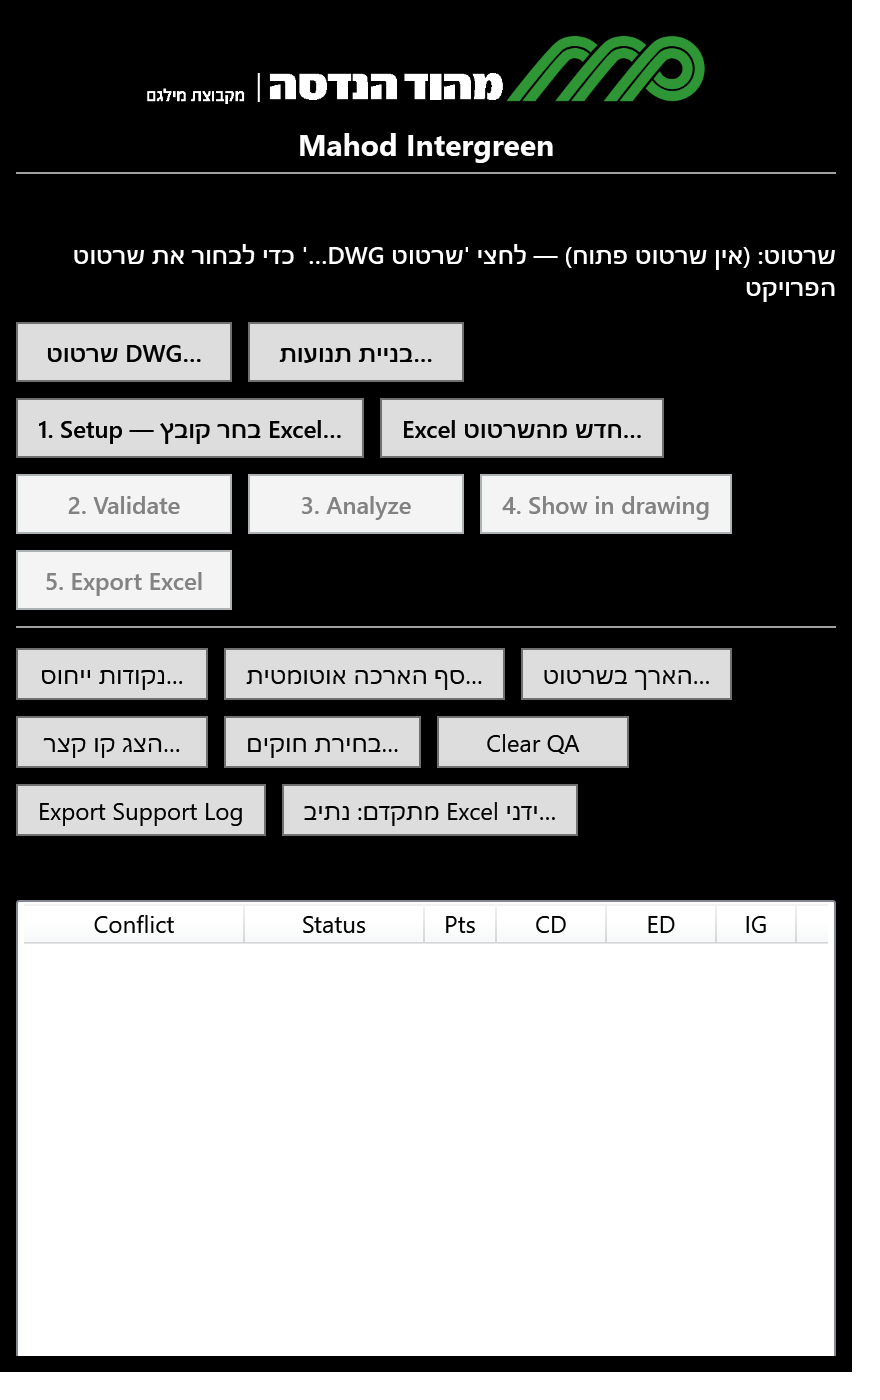
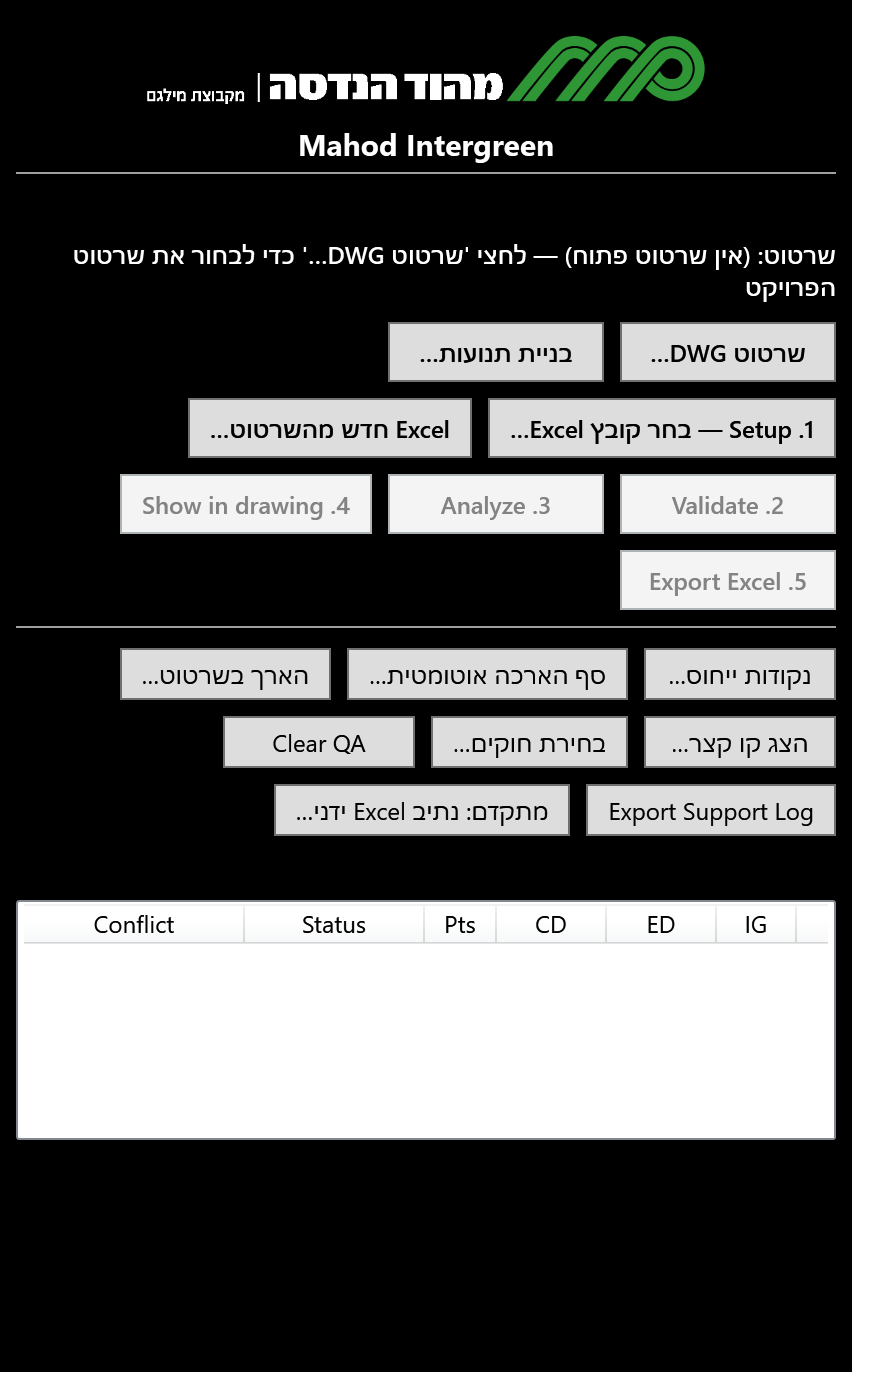
r14 palette polish from the live Civil 3D 2027 test: RTL button flow, scrollable palette and list, Hebrew statuses, busy cursor, export opens in Excel, Validate findings with full text; guide updated

Changed region(s): [[0.0, 0.215, 0.9511, 0.6143], [0.0, 0.7986, 0.9511, 0.9829]]

diff --git a/docs/guides/STAFF_GUIDE_HE_r14.html b/docs/guides/STAFF_GUIDE_HE_r14.html
@@ -58,17 +58,17 @@
   <div class="two">
     <div>
       <h2>הפלטה</h2>
-      <p>שורת הסטטוס בעברית אומרת בכל רגע מה הצעד הבא. השורה העליונה של הכפתורים היא תהליך העבודה (1→5); השורה התחתונה — פעולות תמיכה.</p>
+      <p>שורת הסטטוס בעברית אומרת בכל רגע מה הצעד הבא. הכפתורים זורמים מימין לשמאל: קודם תהליך העבודה (1→5), מתחתיו פעולות התמיכה. הפלטה נגללת כשהיא קצרה מהתוכן, והרשימה נגללת בפני עצמה; בזמן חישוב הסמן מתחלף לשעון חול. ריחוף על שורה ברשימה מציג את המלל המלא.</p>
       <table>
         <tr><th>כפתור</th><th>מה הוא עושה</th></tr>
         <tr><td><span class="btn">שרטוט DWG…</span></td><td>בחירת שרטוט הצומת (או מעבר לשרטוט פתוח).</td></tr>
         <tr><td><span class="btn">בניית תנועות…</span></td><td>בונה את שכבות התנועות מקווי המתכנן (סעיף א').</td></tr>
         <tr><td><span class="btn">1. Setup — בחר קובץ Excel…</span></td><td>יש Excel לפרויקט? בוחרים אותו.</td></tr>
         <tr><td><span class="btn">Excel חדש מהשרטוט…</span></td><td>אין Excel? הכלי יוצר אותו מתבנית המחלקה (סעיף ב').</td></tr>
-        <tr><td><span class="btn">2. Validate</span></td><td>בדיקת השרטוט: תנועות, חציות, קווים קצרים.</td></tr>
+        <tr><td><span class="btn">2. Validate</span></td><td>בדיקת השרטוט: תנועות, חציות, קווים קצרים. הממצאים מופיעים ברשימה (קוד, חומרה, תנועה).</td></tr>
         <tr><td><span class="btn">3. Analyze</span></td><td>חישוב הקונפליקטים והמטריצה.</td></tr>
         <tr><td><span class="btn">4. Show in drawing</span></td><td>מציג את נקודות החישוב של השורה שנבחרה.</td></tr>
-        <tr><td><span class="btn">5. Export Excel</span></td><td>קובץ תוצאות חדש ליד המקור.</td></tr>
+        <tr><td><span class="btn">5. Export Excel</span></td><td>קובץ תוצאות חדש ליד המקור — נפתח באקסל אוטומטית.</td></tr>
         <tr><td><span class="btn">נקודות ייחוס…</span> <span class="btn">הצג קו קצר…</span><br><span class="btn">סף הארכה אוטומטית…</span> <span class="btn">הארך בשרטוט…</span></td><td>טיפול בקו גבול שאינו מגיע לקו העצירה (סעיף ג').</td></tr>
         <tr><td><span class="btn">בחירת חוקים…</span> <span class="btn">Clear QA</span> <span class="btn">Export Support Log</span></td><td>גרסת ההנחיות, ניקוי סימונים, לוג לתמיכה.</td></tr>
       </table>
@@ -134,10 +134,10 @@
 
   <h2>ד. חישוב, תצוגה וייצוא</h2>
   <ol>
-    <li><span class="btn">2. Validate</span> — כמה תנועות וחציות זוהו; שגיאות חוסמות ואזהרות בעברית.</li>
+    <li><span class="btn">2. Validate</span> — כמה תנועות וחציות זוהו; שגיאות חוסמות ואזהרות בעברית, ברשימה שמתחת לכפתורים (ריחוף = המלל המלא). Analyze מחליף את הרשימה בקונפליקטים; Validate נוסף מחזיר את הממצאים.</li>
     <li><span class="btn">3. Analyze</span> — לכל זוג תנועות (מפנה ← נכנסת): CD, ED, זמן הבין־ירוק והסטטוס. מרחק הפינוי של רכב מול מעבר חצייה נמדד עד הקצה הרחוק של המעבר (הנחיות יוני 2025, עמ' 157).</li>
     <li>בוחרים שורה ← <span class="btn">4. Show in drawing</span> — התצוגה מתקרבת, נקודות החישוב מסומנות, הנקודה הקובעת באדום. <span class="btn">Clear QA</span> מנקה את הסימונים; הם אינם נשמרים בשרטוט.</li>
-    <li><span class="btn">5. Export Excel</span> — קובץ תוצאות <b>חדש</b> (<span class="ltr">*_MAHOD_INTERGREEN.xlsx</span>) ליד המקור: הגיליונות המקוריים + שני גיליונות תוצאה של מהוד. Refresh באקסל שומר על התוצאה.</li>
+    <li><span class="btn">5. Export Excel</span> — קובץ תוצאות <b>חדש</b> (<span class="ltr">*_MAHOD_INTERGREEN.xlsx</span>) ליד המקור: הגיליונות המקוריים + שני גיליונות תוצאה של מהוד. הקובץ נפתח באקסל מיד; המטריצה מתרעננת בפתיחה, ו־Refresh שומר על התוצאה.</li>
   </ol>
 
   <h2>חשוב לדעת</h2>

diff --git a/src/Mahod.Intergreen.AutoCAD2026/IgWorkflowCommands.cs b/src/Mahod.Intergreen.AutoCAD2026/IgWorkflowCommands.cs
@@ -387,17 +387,23 @@ public partial class IgWorkflowCommands
         }
         _palette.Visible = true;
         BindToActiveDrawing();
-        SetStatus("Setup → Validate → Analyze → Review → Export Excel.");
+        SetStatus("התהליך: 1 Setup ← 2 Validate ← 3 Analyze ← 4 Show in drawing ← 5 Export Excel. אין Excel לפרויקט? \"Excel חדש מהשרטוט…\".");
     }
 
-    private static StackPanel BuildPanel()
+    private static FrameworkElement BuildPanel()
     {
         // Deterministic palette colors: the hosted WPF visual does NOT inherit the
         // AutoCAD theme dictionary, so a bare TextBlock renders with WPF's default BLACK
         // foreground on the palette's black background — title/status/rules text were
         // invisible in the real host. Every text element gets an explicit foreground.
         var textBrush = System.Windows.Media.Brushes.White;
-        var root = new StackPanel { Margin = new Thickness(8), Background = System.Windows.Media.Brushes.Black };
+        // Hebrew UI: the panel flows right-to-left (buttons start at the right edge, like the text);
+        // the conflict list below is explicitly LTR because its columns are engineering symbols.
+        var root = new StackPanel
+        {
+            Margin = new Thickness(8), Background = System.Windows.Media.Brushes.Black,
+            FlowDirection = System.Windows.FlowDirection.RightToLeft,
+        };
         _status = new TextBlock
         {
             TextWrapping = TextWrapping.Wrap,
@@ -505,7 +511,11 @@ public partial class IgWorkflowCommands
         };
         root.Children.Add(_rulesLabel);
 
-        _list = new ListView { Height = 330 };
+        // grows with its rows up to a cap, then scrolls inside; the palette itself scrolls too (below)
+        _list = new ListView { MinHeight = 120, MaxHeight = 420, FlowDirection = System.Windows.FlowDirection.LeftToRight };
+        var rowStyle = new Style(typeof(ListViewItem));
+        rowStyle.Setters.Add(new Setter(FrameworkElement.ToolTipProperty, new System.Windows.Data.Binding("Detail")));
+        _list.ItemContainerStyle = rowStyle;
         var gv = new GridView();
         void Col(string h, string p, double w)
             => gv.Columns.Add(new GridViewColumn { Header = h, Width = w, DisplayMemberBinding = new System.Windows.Data.Binding(p) });
@@ -523,7 +533,15 @@ public partial class IgWorkflowCommands
         };
         root.Children.Add(_list);
         UpdateButtonStates();
-        return root;
+        // the palette can be shorter than its content: scroll it, and pin the content width to the palette
+        // width so nothing is clipped at the edge (Arthur, Civil 3D 2027, 2026-09-03)
+        return new ScrollViewer
+        {
+            Content = root,
+            VerticalScrollBarVisibility = ScrollBarVisibility.Auto,
+            HorizontalScrollBarVisibility = ScrollBarVisibility.Disabled,
+            Background = System.Windows.Media.Brushes.Black,
+        };
     }
 
     private static void UpdateButtonStates()
@@ -565,6 +583,7 @@ public partial class IgWorkflowCommands
         }
         try
         {
+            System.Windows.Input.Mouse.OverrideCursor = System.Windows.Input.Cursors.Wait;
             a();
         }
         catch (UserFacingException ux)
@@ -581,6 +600,7 @@ public partial class IgWorkflowCommands
         }
         finally
         {
+            System.Windows.Input.Mouse.OverrideCursor = null;
             UpdateButtonStates();
         }
     }
@@ -1007,13 +1027,16 @@ public partial class IgWorkflowCommands
                 SupportLog.Write("REFERENCE_ENDPOINT", ReferenceReview.Line(issue));
             var autoNote = ReferenceReview.ResolutionSummary(_lastResolved, _lastExtensionTolerance);
             if (autoNote.Length > 0) autoNote = " " + autoNote;
-            SetStatus($"VALIDATE: {movements.Count} movements " +
-                      $"({movements.Count(m => m.Mode == MovementMode.Pedestrian)} crossings), " +
-                      $"units={unitsName}, errors={errors}, warnings={warns}." + autoNote + " " +
+            SetStatus($"Validate: {movements.Count} תנועות ({movements.Count(m => m.Mode == MovementMode.Pedestrian)} מעברי חצייה), " +
+                      $"יחידות: {unitsName}, שגיאות: {errors}, אזהרות: {warns}." + autoNote + " " +
                       (_referenceIssues.Count > 0
-                          ? ReferenceReview.HebrewSummary(_referenceIssues) + " לחצי \"נקודות ייחוס…\"."
-                          : errors > 0 ? "Resolve errors via Setup/drawing before Analyze." : "Ready to Analyze."));
-            Populate(findings.Select(x => new ConflictRow(x.ConflictRef ?? "-", x.Severity.ToString(), "", "", "", x.Code)).ToList());
+                          ? ReferenceReview.HebrewSummary(_referenceIssues) + " לחצי \"נקודות ייחוס…\" או \"הצג קו קצר…\"."
+                          : errors > 0 ? "יש לתקן את השגיאות (Setup / שרטוט) לפני Analyze." : "אפשר להריץ Analyze."));
+            // the findings take the list until Analyze replaces them: code, Hebrew severity, full text on hover
+            Populate(findings.Select(x => new ConflictRow(x.Code, x.Severity switch
+                {
+                    Severity.Error => "שגיאה", Severity.Warning => "אזהרה", _ => "מידע",
+                }, "", "", "", x.ConflictRef ?? "", x.Message)).ToList());
             return;
         }
 
@@ -1057,14 +1080,17 @@ public partial class IgWorkflowCommands
             c.Id, c.Status, c.Points.Count.ToString(),
             c.Points.Count > 0 ? c.Points.Max(p => p.Cd).ToString("F2") : "",
             c.Points.Count > 0 ? c.Points.Min(p => p.Ed).ToString("F2") : "",
-            c.FinalIg?.ToString() ?? "—")).ToList());
-        SetStatus($"ANALYZE: {_lastOutput.Analysis.Conflicts.Count} conflicts, " +
-                  $"matrix {_lastOutput.Analysis.Matrix.Count(m => m.Status == "VALID")} VALID / " +
-                  $"{_lastOutput.Analysis.Matrix.Count(m => m.Status == "BLOCKED")} BLOCKED. " +
-                  "Select a conflict → Show in drawing; then Export Excel.");
+            c.FinalIg?.ToString() ?? "—",
+            $"{c.Id}: {c.Points.Count} נקודות מועמדות, הקובעת {c.DefiningPointId ?? "—"}; בין-ירוק {c.FinalIg?.ToString() ?? "—"} שנ'")).ToList());
+        var mValid = _lastOutput.Analysis.Matrix.Count(m => m.Status == "VALID");
+        var mReview = _lastOutput.Analysis.Matrix.Count(m => m.Status.StartsWith("REVIEW"));
+        var mBlocked = _lastOutput.Analysis.Matrix.Count(m => m.Status == "BLOCKED");
+        SetStatus($"Analyze: {_lastOutput.Analysis.Conflicts.Count} קונפליקטים; מטריצה: {mValid} תקינים" +
+                  (mReview > 0 ? $", {mReview} לבדיקה" : "") + (mBlocked > 0 ? $", {mBlocked} חסומים" : "") +
+                  ". בחרי שורה ← \"Show in drawing\"; ואז \"Export Excel\".");
     }
 
-    private sealed record ConflictRow(string Id, string Status, string Pts, string Cd, string Ed, string Ig);
+    private sealed record ConflictRow(string Id, string Status, string Pts, string Cd, string Ed, string Ig, string Detail = "");
 
     private static void Populate(List<ConflictRow> rows)
     {
@@ -1126,8 +1152,8 @@ public partial class IgWorkflowCommands
         doc.Editor.UpdateScreen();
         SupportLog.Write("SHOW_OK",
             $"{conflict.Id} points={conflict.Points.Count} governing={conflict.DefiningPointId ?? "-"} finalIg={conflict.FinalIg?.ToString() ?? "-"}");
-        SetStatus($"{conflict.Id}: {conflict.Points.Count} candidate points highlighted " +
-                  $"(red = governing {conflict.DefiningPointId}); Final IG = {conflict.FinalIg?.ToString() ?? "—"}.");
+        SetStatus($"{conflict.Id}: {conflict.Points.Count} נקודות חישוב מסומנות בשרטוט (באדום — הקובעת, {conflict.DefiningPointId}); " +
+                  $"בין-ירוק: {conflict.FinalIg?.ToString() ?? "—"} שנ'. \"Clear QA\" מנקה את הסימונים.");
     }
 
     [CommandMethod("IG_CLEAR_QA", CommandFlags.Modal)]
@@ -1527,12 +1553,32 @@ public partial class IgWorkflowCommands
         var export = WorkbookWriter.Export(_workbookPath, outPath, _lastOutput.Analysis, _lastModel);
         SupportLog.Write("EXPORT_DONE", $"{outPath} rows={export.RowsPopulated} multiPoint={export.MultiPointRows} cleared={export.RowsClearedNoEngineResult} pivotReset={export.PivotCachesReset} issues={export.StructuralIssues.Count}");
         foreach (var note in export.LegacyPivotNotes) SupportLog.Write("EXPORT_LEGACY_PIVOT_NOTE", note);
-        SetStatus(export.StructuralIssues.Count == 0
-            ? $"Excel exported → {Path.GetFileName(outPath)} ({export.RowsPopulated} rows from the engine" +
-              (export.RowsClearedNoEngineResult > 0 ? $", {export.RowsClearedNoEngineResult} rows cleared — no engine result, see QA column" : "") +
-              (export.LegacyPivotNotes.Count > 0 ? "; legacy Matrix source has pre-existing #REF! rows — 'MAHOD Matrix Status' is authoritative" : "") +
-              "). הקובץ נפתח ב-Excel כשהמטריצה מתרעננת אוטומטית."
-            : $"EXPORT VERIFICATION FAILED: {export.StructuralIssues.First()}");
+        if (export.StructuralIssues.Count > 0)
+        {
+            SetStatus($"הייצוא נכשל בבדיקת המבנה: {export.StructuralIssues.First()}");
+            return;
+        }
+        var opened = TryOpenInExcel(outPath);
+        SetStatus($"הייצוא נשמר: {Path.GetFileName(outPath)} — {export.RowsPopulated} שורות מהמנוע" +
+                  (export.RowsClearedNoEngineResult > 0 ? $", {export.RowsClearedNoEngineResult} שורות נוקו (אין תוצאת מנוע — ראי עמודת QA)" : "") +
+                  (export.LegacyPivotNotes.Count > 0 ? "; במקור יש שורות #REF! ישנות — גיליון 'MAHOD Matrix Status' הוא הקובע" : "") +
+                  (opened ? ". הקובץ נפתח באקסל; המטריצה מתרעננת בפתיחה." : ". הקובץ נשמר ליד המקור."));
+    }
+
+    /// <summary>Open the exported workbook with the user's Excel — a convenience only; the export is complete without it.</summary>
+    private static bool TryOpenInExcel(string path)
+    {
+        try
+        {
+            System.Diagnostics.Process.Start(new System.Diagnostics.ProcessStartInfo(path) { UseShellExecute = true });
+            SupportLog.Write("EXPORT_OPENED", path);
+            return true;
+        }
+        catch (System.Exception ex)
+        {
+            SupportLog.Write("EXPORT_OPEN_FAILED", ex.Message);
+            return false;
+        }
     }
 
     private static void ExportSupportLog()

diff --git a/src/Mahod.Intergreen.AutoCAD2026/MovementBuilderCommands.cs b/src/Mahod.Intergreen.AutoCAD2026/MovementBuilderCommands.cs
@@ -88,7 +88,8 @@ public partial class IgWorkflowCommands
         }
         SetStatus(built == 0
             ? "בניית התנועות הסתיימה — לא נבנתה תנועה."
-            : $"נבנו {built} תנועות/מעברים. עכשיו: \"Excel חדש מהשרטוט…\" (פרויקט חדש) או Setup עם Excel קיים, ואז Validate.");
+            : (built == 1 ? "נבנתה תנועה אחת." : $"נבנו {built} תנועות/מעברים.") +
+              " עכשיו: \"Excel חדש מהשרטוט…\" (פרויקט חדש) או Setup עם Excel קיים, ואז Validate.");
     }
 
     private static string? Keyword(Editor ed, string message, string keywords, string? defaultKeyword)
